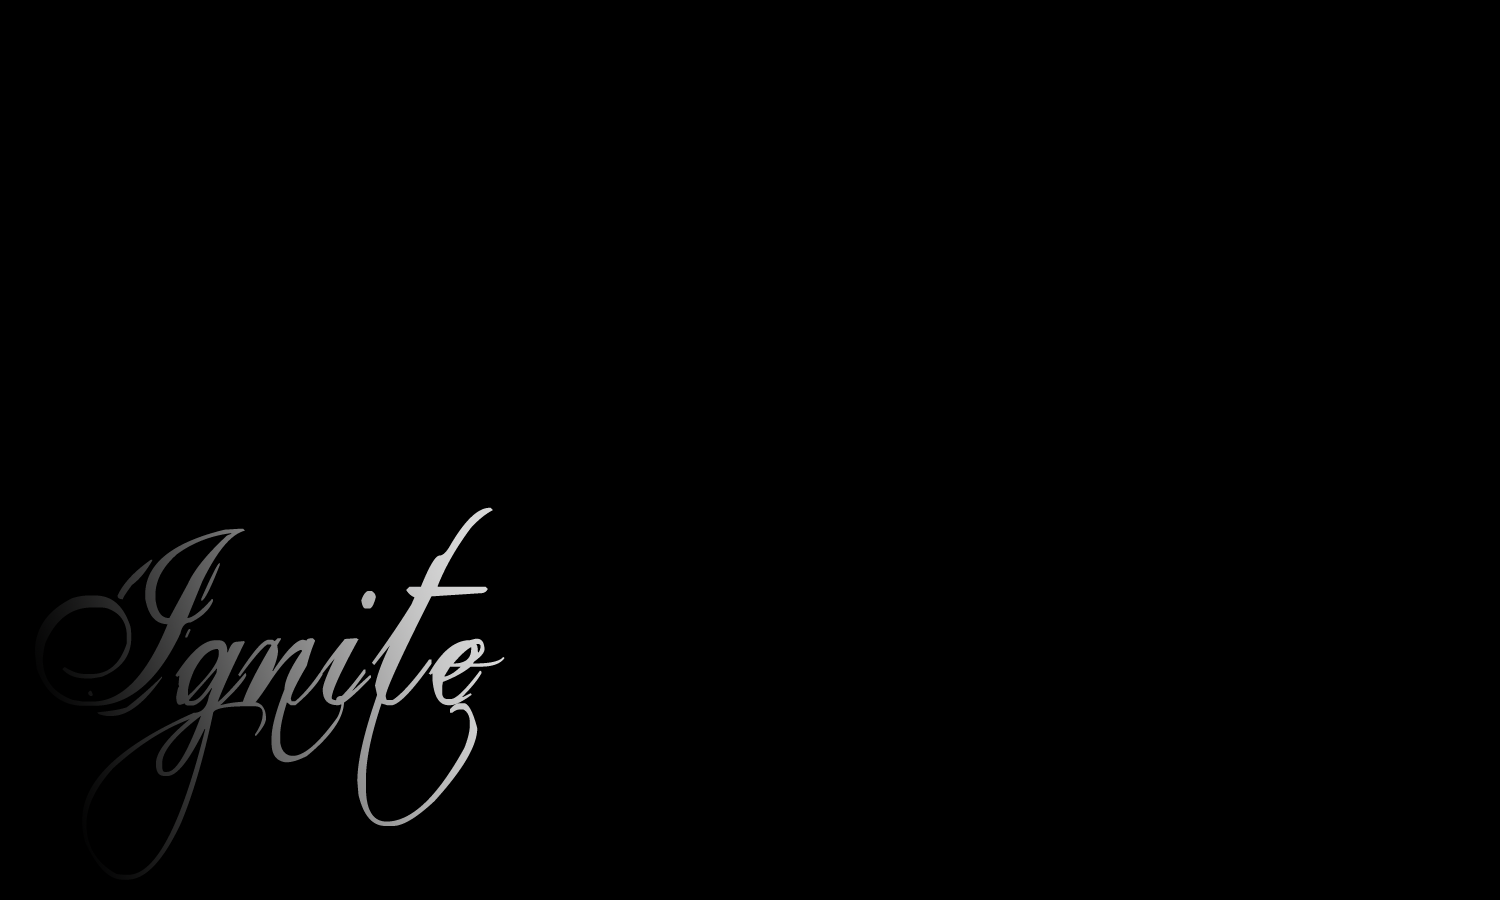
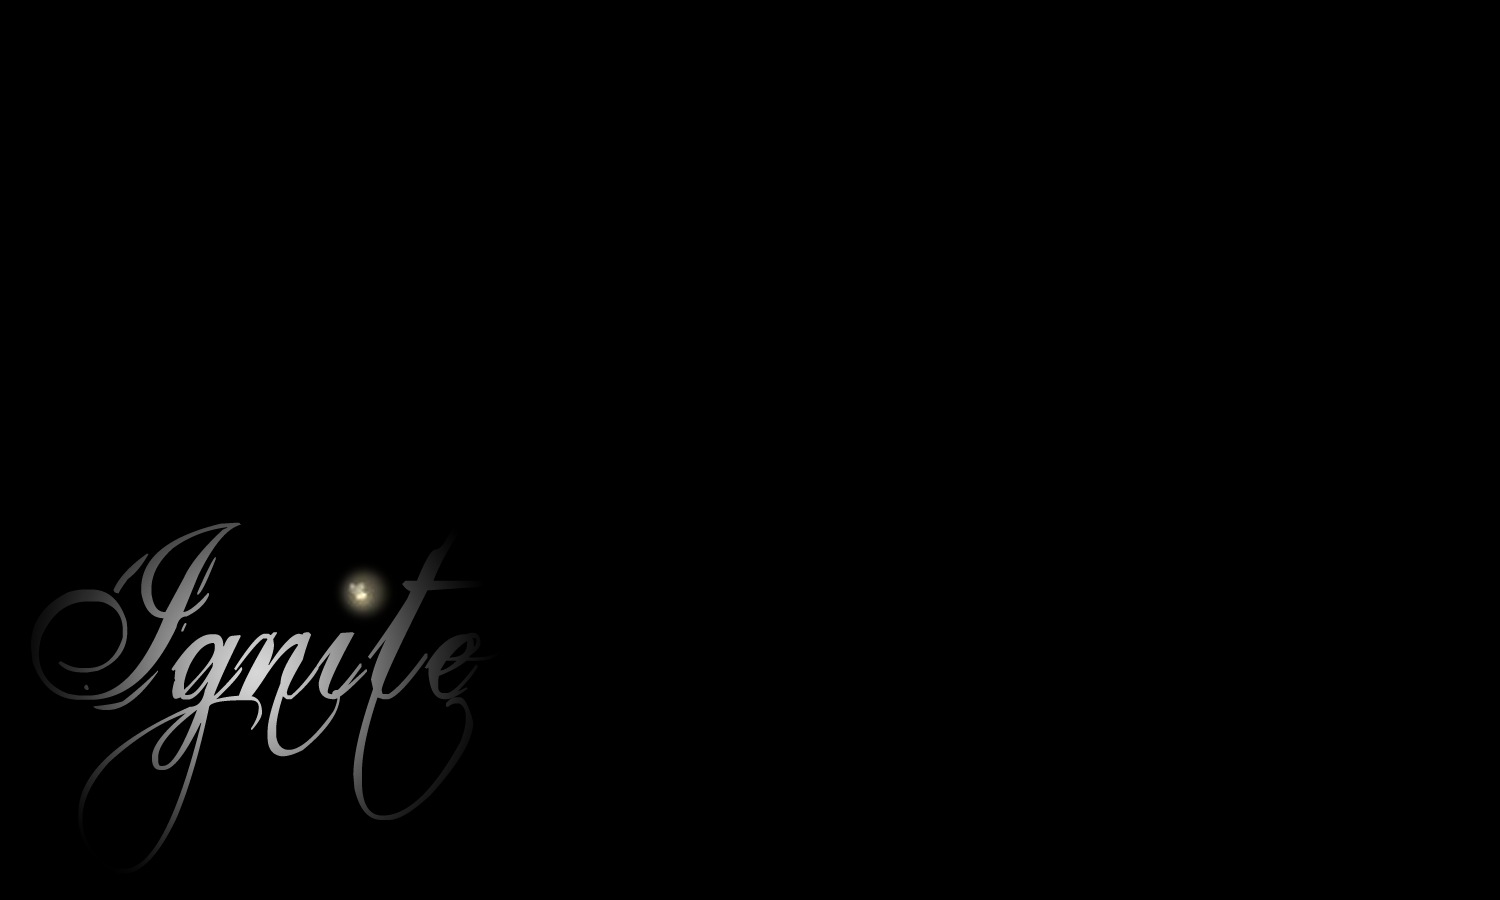
playing around with main menu. nothing major, just moving around buttons
git-svn-id: http://subversion.assembla.com/svn/projectflare/trunk@233 d7f86d05-3d01-4247-9a02-3338f5b2d2c1

diff --git a/src/flareMain.js b/src/flareMain.js
@@ -729,7 +729,7 @@ function createButtons() {
 	var mainNewGame = document.createElement('div');
 	mainNewGame.id = 'newGame';
 	mainNewGame.innerHTML = "<img src='assets/ui/mainMenu/main_menu_play.png' width='100%' height='100%' />";
-	mainNewGame.setAttribute('style', "width: " + MEASURE_UNIT * 2 + "px; height: " + MEASURE_UNIT + "px; left: " + ((GAME_WIDTH * .18) + (MEASURE_UNIT * 8.6)) + "px; top: " + GAME_HEIGHT * .46 + "px; position: absolute; z-index: 5;");
+	mainNewGame.setAttribute('style', "width: " + MEASURE_UNIT * 2 + "px; height: " + MEASURE_UNIT + "px; left: " + ((GAME_WIDTH * .18) + (MEASURE_UNIT * 8.6)) + "px; top: " + GAME_HEIGHT * /*46*/ .70 + "px; position: absolute; z-index: 5;");
 	topCanvas.appendChild(mainNewGame);
 	mainNewGame.style.display = 'none';
 	mainNewGame.addEventListener("click", newGameHandler, false);	
